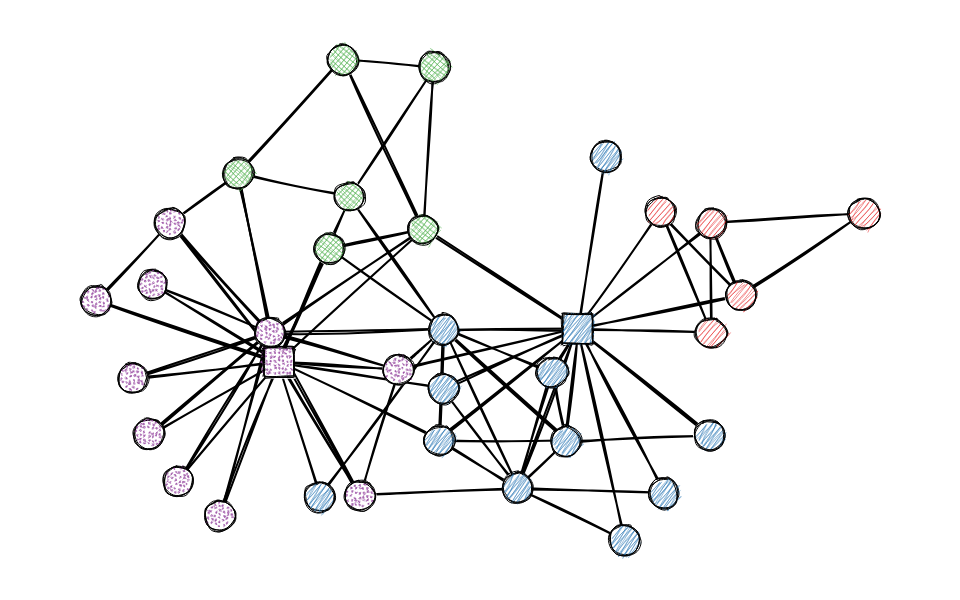
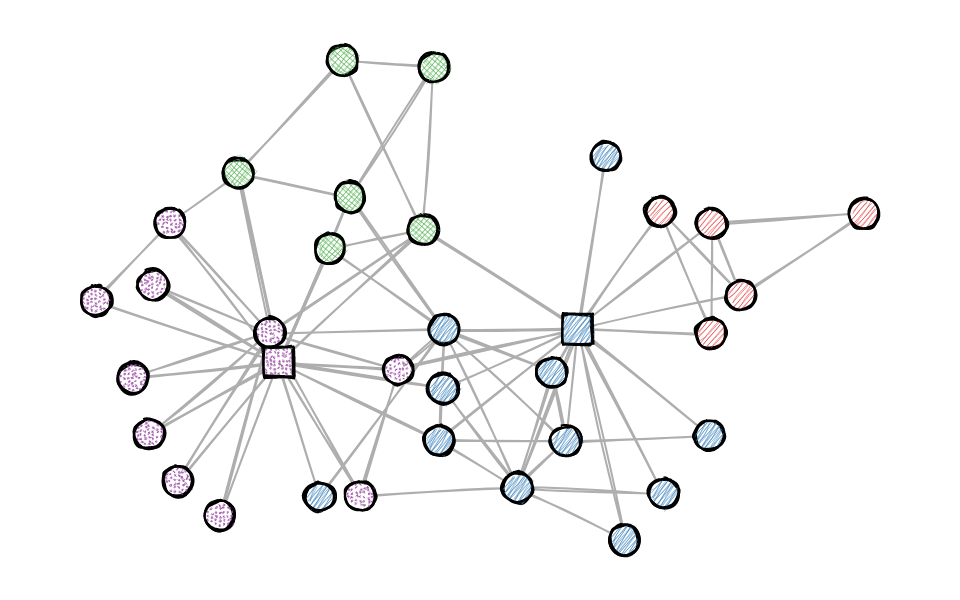
changed defaults

diff --git a/inst/htmlwidgets/roughnet.js b/inst/htmlwidgets/roughnet.js
@@ -3,8 +3,11 @@ function drawRect(rc, s) {
      roughness: s.roughness,
      bowing: s.bowing,
      fill: s.fill,
+     fillStyle: s.fillstyle,
+     hachureGap: 4,
+     fillWeight: 0.5,
      stroke: s.color,
-     fillStyle: s.fillstyle
+     strokeWidth: s.width
    });
 }
 
@@ -13,8 +16,11 @@ function drawCirc(rc, s) {
      roughness: s.roughness,
      bowing: s.bowing,
      fill: s.fill,
+     fillStyle: s.fillstyle,
+     hachureGap: 4,
+     fillWeight: 0.5,
      stroke: s.color,
-     fillStyle: s.fillstyle
+     strokeWidth: s.width
    });
 }
 
@@ -51,12 +57,6 @@ HTMLWidgets.widget({
         // Create context for text shape
         const c = document.getElementById("canvas");
         var ctx = c.getContext("2d");
-        console.log(x);
-//        rc.rectangle(0,0,800,600,{
-//          stroke: 'white',
-//          fill: 'white',
-//          fillstyle: 'solid'
-//        });
         x.data.map(function(s) {
           if (s.shape === "rectangle") {
             drawRect(rc, s);
@@ -70,7 +70,7 @@ HTMLWidgets.widget({
         });
       },
       resize: function(width, height) {
-        // TODO: Find a way to redraw the image on resize.
+        // TODO
       }
     }
   }

diff --git a/README.md b/README.md
@@ -40,7 +40,18 @@ V(g)$fill <- c("#E41A1C", "#377EB8", "#4DAF4A", "#984EA3")[membership(cluster_lo
 V(g)$fillstyle <- c("hachure", "zigzag", "cross-hatch", "dots")[membership(cluster_louvain(g))]
 V(g)$color <- "black"
 V(g)$size <- 30
-roughnet(g,width = 960,height=600)
+V(g)$stroke <- 2
+E(g)$color <- "#AEAEAE"
+roughnet(g,width = 960,height = 600)
 ```
 
 ![](man/figures/karate.png)
+
+You can save the plot with the function `save_roughnet()` (needs
+{{pagedown}} to be installed.)
+
+``` r
+# install.packages("pagedown")
+p <- roughnet(g,width = 960,height=600)
+save_roughnet(p,"karate.png")
+```
